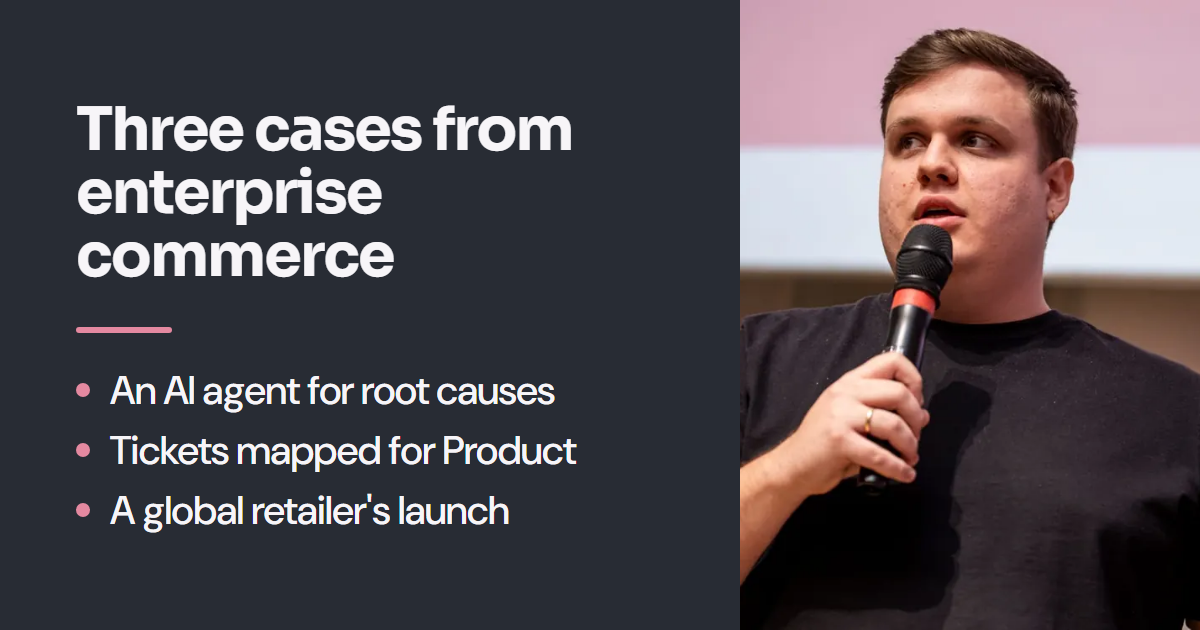
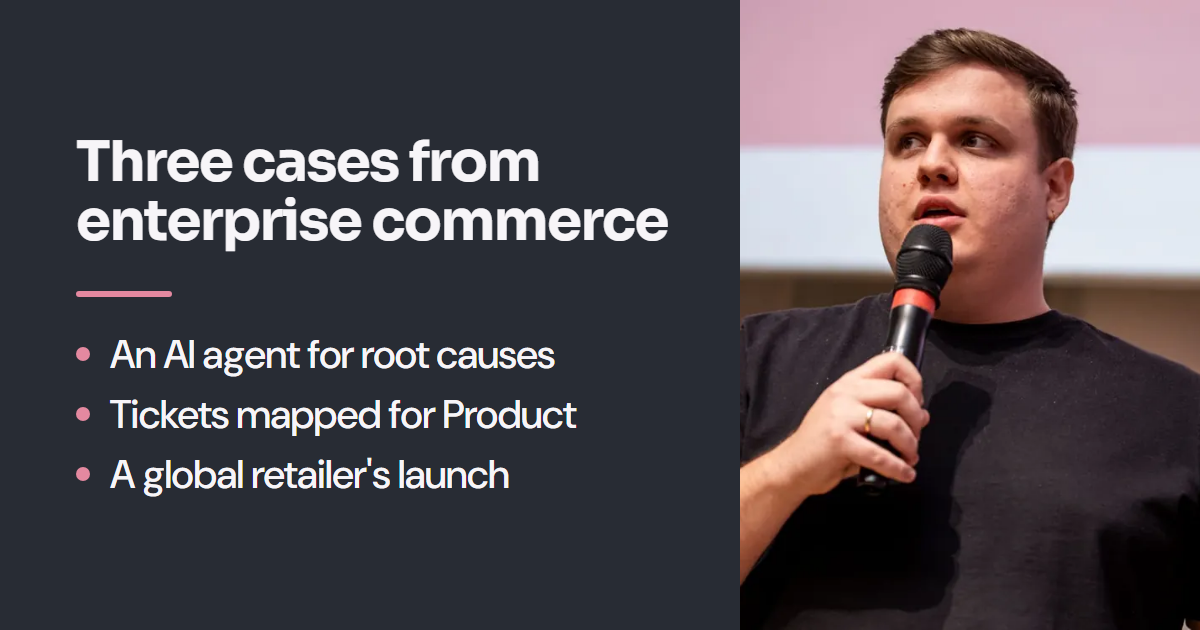
Keep 'enterprise commerce' on one line in the link preview
Headline at 56px with a fixed break; og:image cache key bumped to v=3.

Changed region(s): [[0.0617, 0.5127, 0.4933, 0.8444], [0.0617, 0.1508, 0.555, 0.4825]]

diff --git a/index.html b/index.html
@@ -15,7 +15,7 @@
   <meta property="og:description" content="Customer Success Manager at VTEX, where technical relationships turn into business growth.">
   <meta property="og:type" content="website">
   <meta property="og:url" content="https://phamodeo.com.br/">
-  <meta property="og:image" content="https://phamodeo.com.br/og-image.png?v=2">
+  <meta property="og:image" content="https://phamodeo.com.br/og-image.png?v=3">
   <meta property="og:image:width" content="1200">
   <meta property="og:image:height" content="630">
   <meta property="og:image:alt" content="Pedro Amodeo, Customer Success Manager at VTEX. Translating Tech into Growth.">
@@ -24,7 +24,7 @@
   <meta name="twitter:card" content="summary_large_image">
   <meta name="twitter:title" content="Pedro Amodeo | Translating Tech into Growth">
   <meta name="twitter:description" content="Customer Success Manager at VTEX, where technical relationships turn into business growth.">
-  <meta name="twitter:image" content="https://phamodeo.com.br/og-image.png?v=2">
+  <meta name="twitter:image" content="https://phamodeo.com.br/og-image.png?v=3">
 
   <script type="application/ld+json">
   {

diff --git a/og-image.html b/og-image.html
@@ -42,12 +42,14 @@
 
     .headline {
       font-family: 'Sora', sans-serif;
-      font-size: 60px;
+      font-size: 56px;
       font-weight: 700;
       color: #F7F5F8;
       letter-spacing: -0.03em;
       line-height: 1.05;
     }
+
+    .nowrap { white-space: nowrap; }
 
     .divider {
       width: 96px;
@@ -96,7 +98,7 @@
 </head>
 <body>
   <div class="text">
-    <h1 class="headline">Three cases from enterprise commerce</h1>
+    <h1 class="headline">Three cases from<br><span class="nowrap">enterprise commerce</span></h1>
     <div class="divider"></div>
     <ul class="topics">
       <li>An AI agent for root causes</li>
